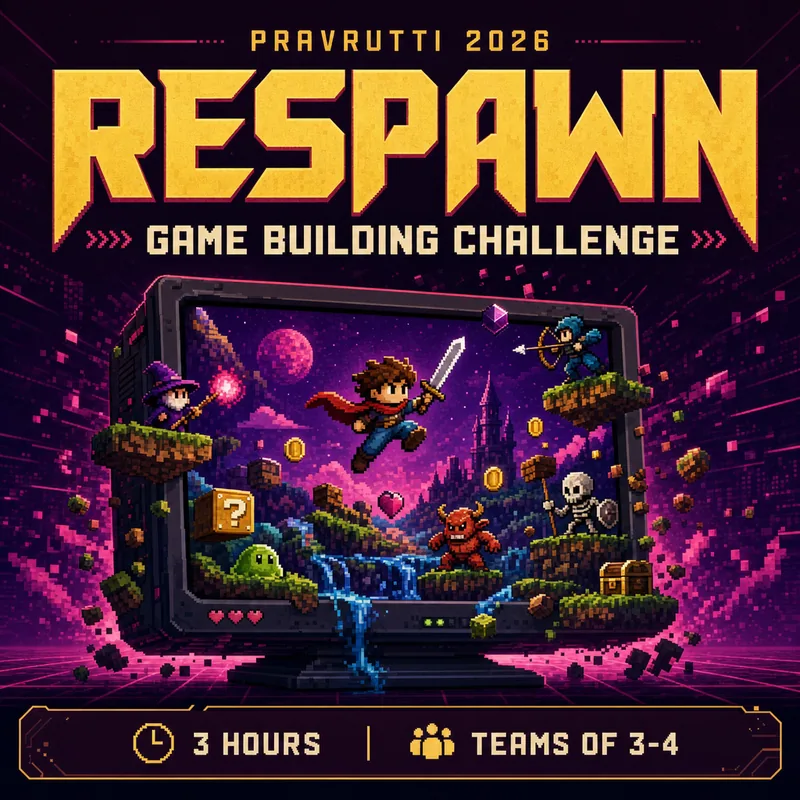
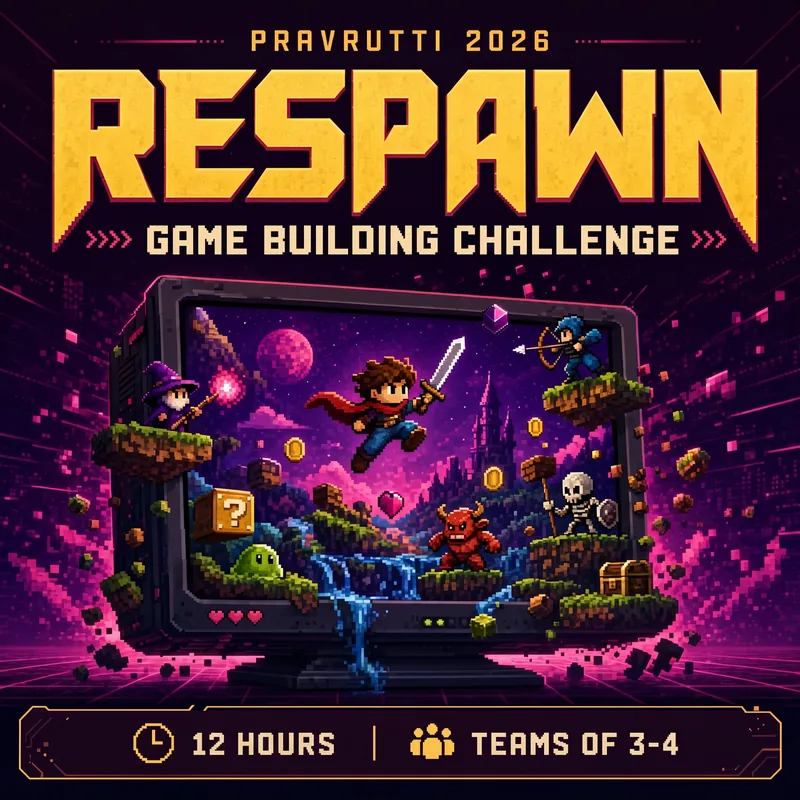
feat(events): RESPAWN poster, LEADS team size and faculty coordinator
RESPAWN's poster now reads 12 HOURS, resized to 800x800 webp to match
the other 23.

LEADS goes from "Solo or up to 4" to teams of 2-4. The sheet said minimum
1 with solo allowed, but the rulebook the coordinators just sent says
"Minimum Team Size: 2 Members" — the site was offering an entry the
rulebook forbids, so someone could have registered solo and been turned
away on the day.

Dr. Pallabi Mund is added as LEADS' faculty coordinator with her number,
the first faculty entry on any event. That exposed a gap in the phone
name-match guard added earlier: it only looked at coordinators.student,
while the page and /api/events/coordinators treat faculty and student as
one list. The guard now covers both.

diff --git a/test/coordinator-phone-names.test.ts b/test/coordinator-phone-names.test.ts
@@ -1,6 +1,10 @@
 import { describe, it, expect, beforeAll } from "vitest";
 
-/* coordinator-phones.ts matches the public coordinator list by exact name
+/* Covers faculty and student together: the page renders them in one list and
+   /api/events/coordinators returns one flat set of numbers, so a faculty
+   entry is just as able to drift out of sync.
+
+   coordinator-phones.ts matches the public coordinator list by exact name
    string, and its own comment warns that editing a name in one file without
    the other "quietly stops" that person's call button appearing. Until now
    nothing enforced that — this is the enforcement. */
@@ -17,7 +21,9 @@ describe("coordinator phone entries match coordinator names", () => {
   it("has no phone entry whose name matches nobody on that event", () => {
     const orphans: string[] = [];
     for (const e of events) {
-      const listed = new Set(e.coordinators.student.map((c) => c.name));
+      const listed = new Set(
+        [...e.coordinators.faculty, ...e.coordinators.student].map((c) => c.name)
+      );
       for (const p of coordinatorPhones(eventId(e.name))) {
         if (!listed.has(p.name)) orphans.push(`${e.name}: "${p.name}"`);
       }
@@ -33,7 +39,7 @@ describe("coordinator phone entries match coordinator names", () => {
     const noPhone: string[] = [];
     for (const e of events) {
       const phones = new Set(coordinatorPhones(eventId(e.name)).map((p) => p.name));
-      for (const c of e.coordinators.student) {
+      for (const c of [...e.coordinators.faculty, ...e.coordinators.student]) {
         if (!phones.has(c.name)) noPhone.push(`${e.name}: ${c.name}`);
       }
     }

diff --git a/lib/pravrutti-data.ts b/lib/pravrutti-data.ts
@@ -555,12 +555,14 @@ export const events: Event[] = [
     description: "LEADS Innovation Challenge is a 2-hour startup leadership simulation where teams build a venture from a problem card, defend it through a live mid-event crisis twist, and pitch the complete journey to an investor-style panel testing innovation, adaptability, branding instinct, and leadership, all under real time pressure.",
     fee: "Rs. 200/-",
     prizes: [5000, 3000, 2000],
-    teamSize: { min: 1, max: 4, soloAllowed: true },
+    /* Rulebook: "Minimum Team Size: 2 Members". The sheet said 1 with solo
+       allowed, which had the site offering an entry the rulebook forbids. */
+    teamSize: { min: 2, max: 4, soloAllowed: false },
     capacity: 100,
     capacityUnit: "teams",
     duration: "2h 15m",
     coordinators: {
-      faculty: [],
+      faculty: [{ name: "Dr. Pallabi Mund" }],
       student: [{ name: "Pranav Bansal" }, { name: "Siddharth Gupta" }],
     },
     club: "LEADS",

diff --git a/lib/coordinator-phones.ts b/lib/coordinator-phones.ts
@@ -76,6 +76,7 @@ const PHONES: Record<string, CoordinatorPhone[]> = {
     { name: "Pranav P J", phone: "95677 34887" },
   ],
   "leads-innovation-challenge": [
+    { name: "Dr. Pallabi Mund", phone: "9916130272" },
     { name: "Pranav Bansal", phone: "7483160806" },
     { name: "Siddharth Gupta", phone: "8102116082" },
   ],
